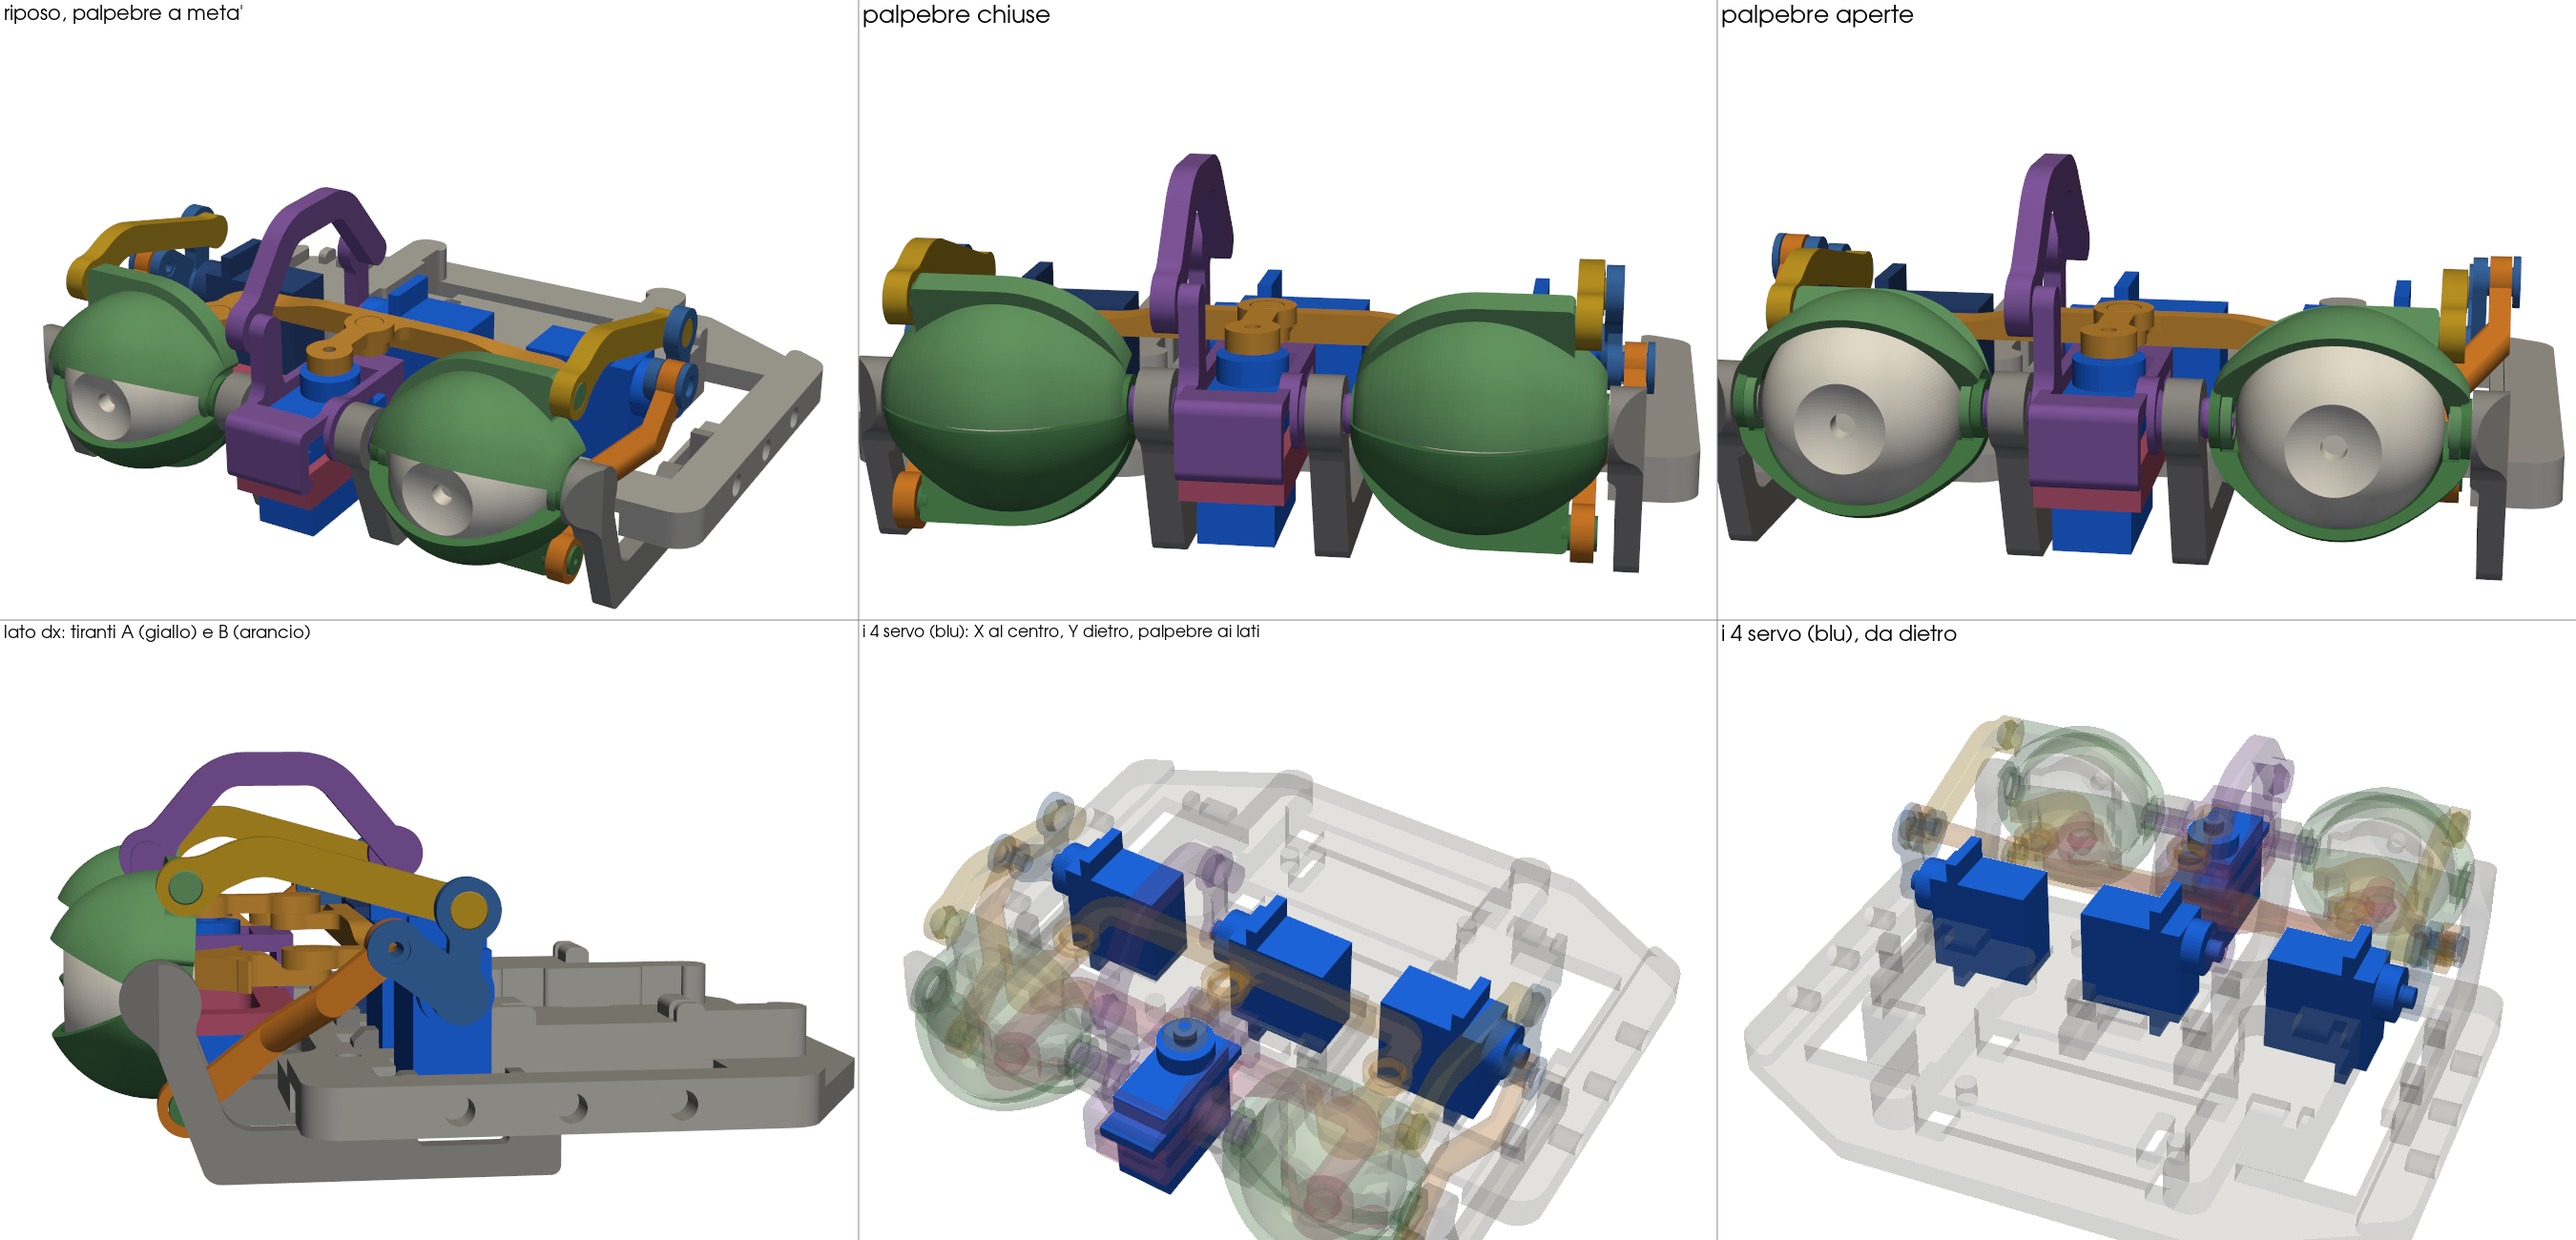
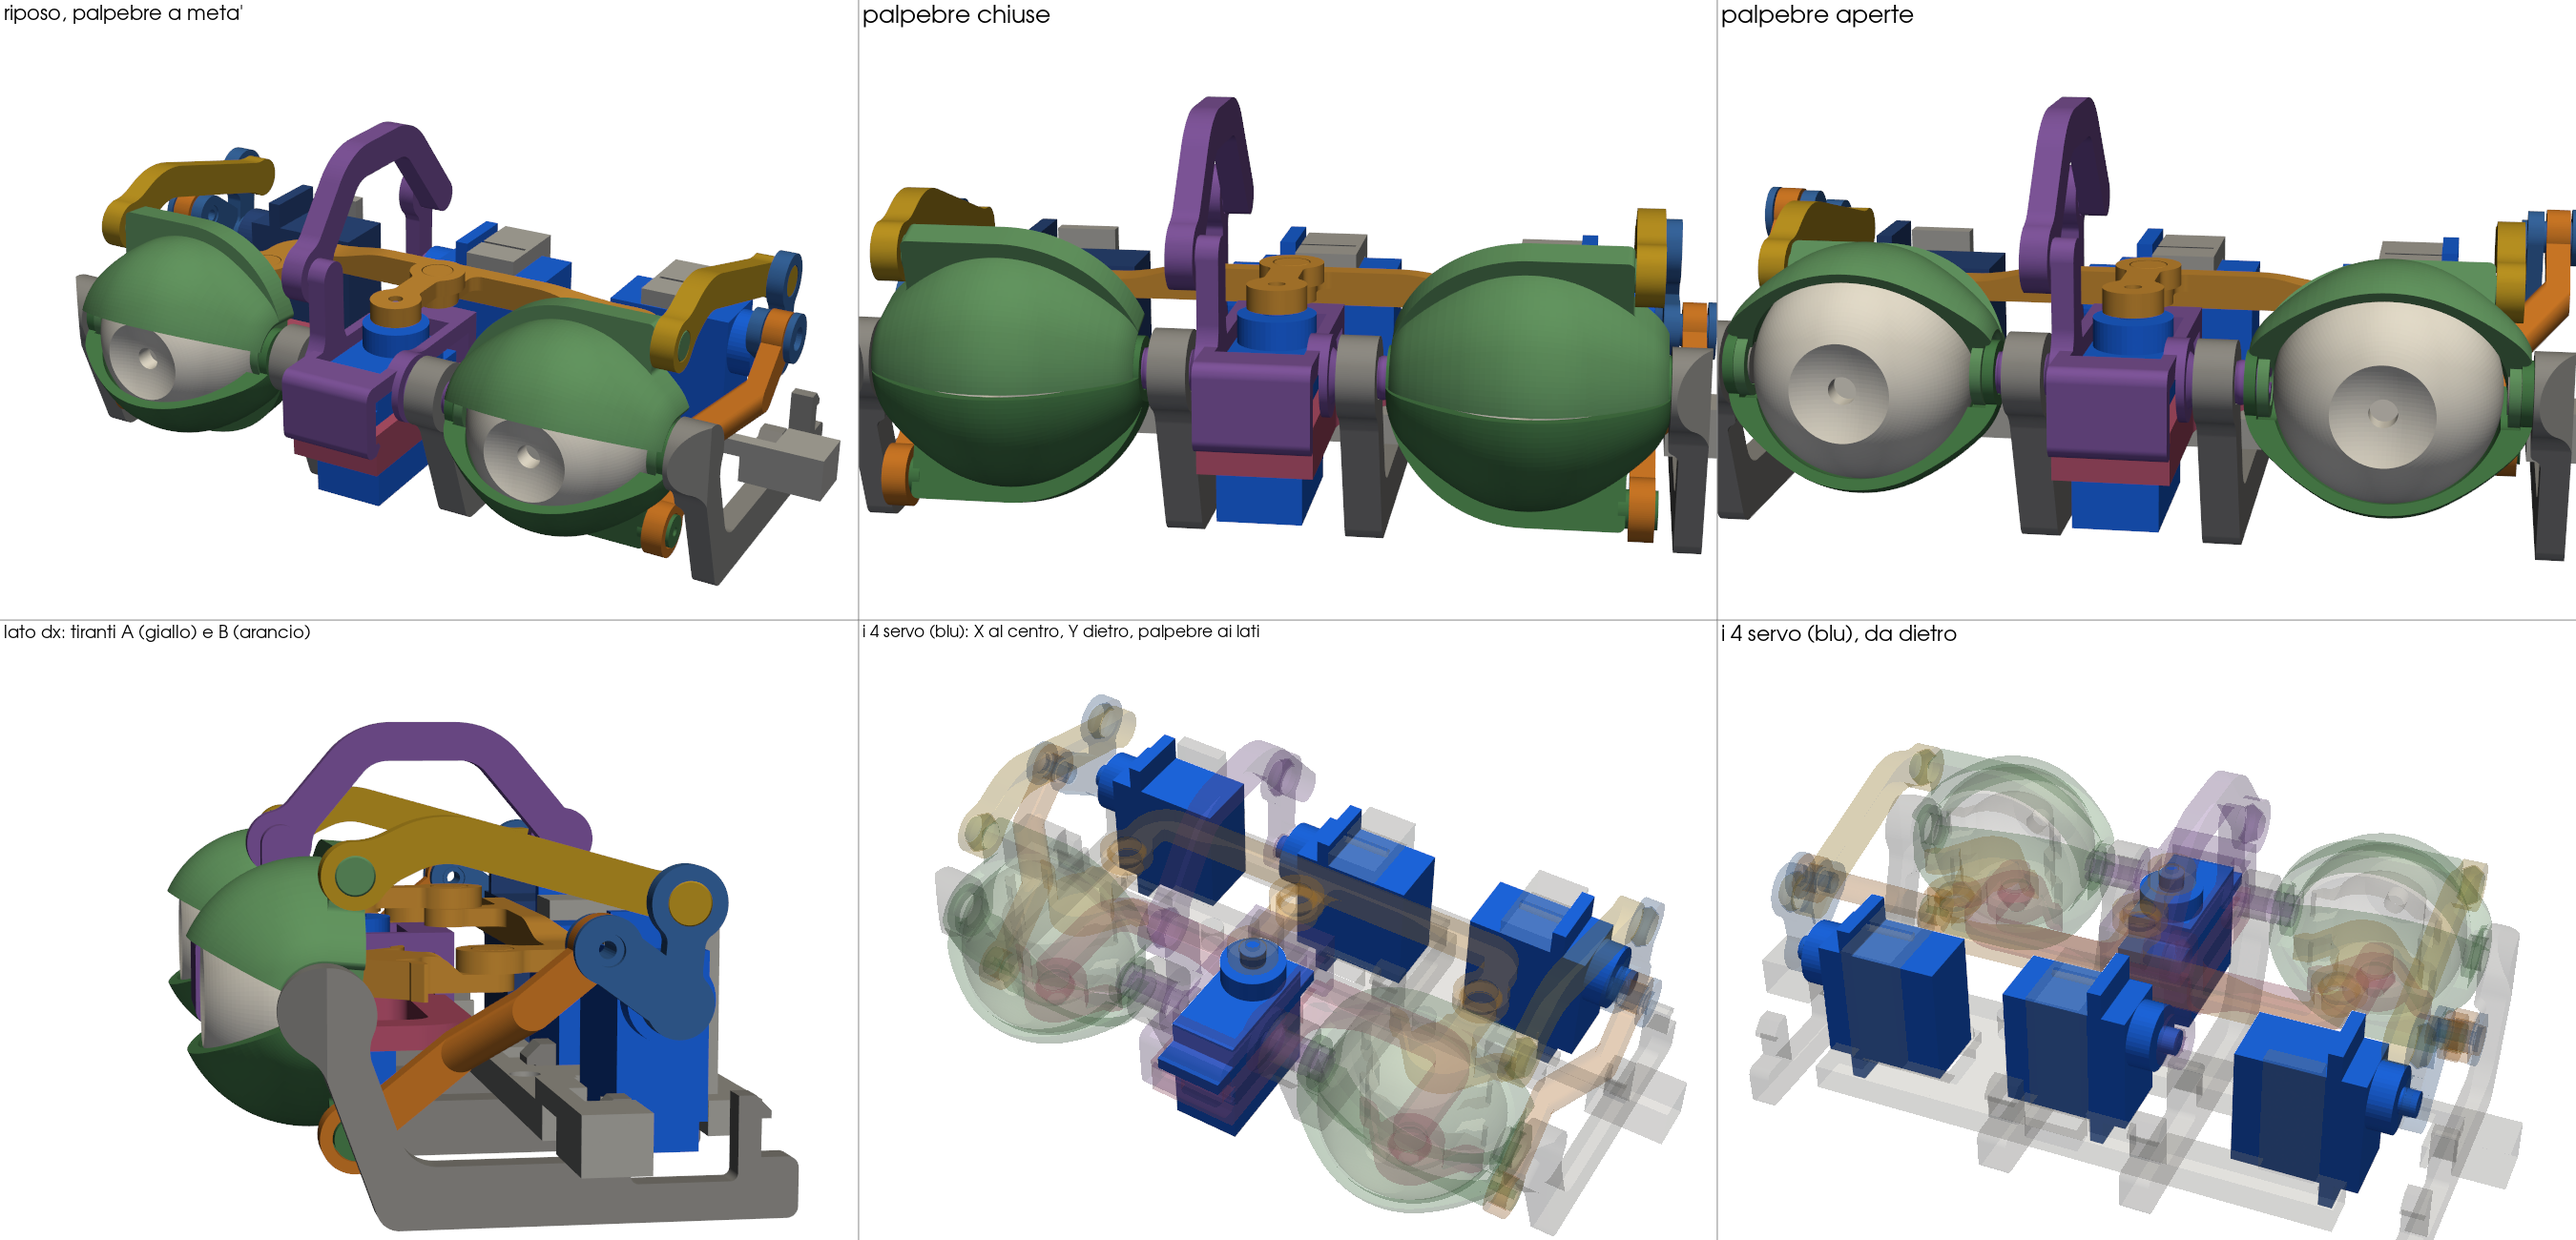
idra_version: base ridotta senza sedi inutilizzate (3 h 52 min, 76 g)
La base intera di Will (145x95, con porta-PCB, sedi dei servo posteriori e
i fermi) era ancora quella originale. Ora e' la striscia 145x30x28 con tre
blocchi nuovi (parete 3 mm) per i servo delle palpebre e dell'asse Y, senza
fermi. 20 pezzi su un piatto: da 4 h 58 min / 117 g a 3 h 52 min / 76 g.
pack_plate.py genera anche l'immagine della disposizione.

diff --git a/mechanical/scripts/generate_eyemech.py b/mechanical/scripts/generate_eyemech.py
@@ -375,7 +375,7 @@ def servo_frame(shaft_pt, shaft_dir, body_dir, top):
     return M
 
 
-def servo_seat(part, Mtop, s, plugs=(), zmin=None, sweep=40.0, depth=None):
+def servo_seat(part, Mtop, s, plugs=(), zmin=None, sweep=40.0, depth=None, wall=None, open_side=0):
     """sede 1:1 per SG90/MG90S vero dentro la sede ingrandita di Will.
     Mtop: locale servo -> pezzo con l'origine sull'asse, nel piano della faccia SUPERIORE
     (z locale = albero). Si riempie il volume del SG90 ingrandito (che era vuoto per costruzione)
@@ -385,7 +385,10 @@ def servo_seat(part, Mtop, s, plugs=(), zmin=None, sweep=40.0, depth=None):
       * via d'ingresso: tutto libero sopra il piano orecchie, lungo l'albero.
     plugs: mesh (nel sistema del pezzo) che chiudono fessure di Will da riempire;
     zmin: il riempimento non scende sotto questa quota (fondo del pezzo, piano di stampa);
-    depth: il riempimento si ferma a questa distanza sotto il piano orecchie (None = tutto)."""
+    depth: il riempimento si ferma a questa distanza sotto il piano orecchie (None = tutto);
+    wall: scala originale (s = 1), dove la sede ingrandita coincide col servo e non lascia pareti:
+    il blocco e' una scatola attorno al servo vero, spessa wall su ogni lato tranne open_side
+    (-1/+1 = lato y locale senza parete: dietro il servo passa il telaio laterale di XAxisB)."""
     c = CL
     T = lambda m: tf(m, Mtop)
     Hs = s * SG_H                                    # fondo SG90 ingrandito a z = -Hs
@@ -394,7 +397,12 @@ def servo_seat(part, Mtop, s, plugs=(), zmin=None, sweep=40.0, depth=None):
     hw = s * SG_W / 2 - 0.2
     # solo il corpo ingrandito (+1 dentro il fondo tasca): le fessure delle orecchie le chiudono
     # i plugs, l'orecchia ingrandita superiore non serve
-    body = box([xb0 + 0.2, -hw, -Hs], [xb1 + 1.0, hw, 0])
+    if wall is None:
+        body = box([xb0 + 0.2, -hw, -Hs], [xb1 + 1.0, hw, 0])
+    else:
+        body = box([-SG_SHAFT - c - wall, -SG_W / 2 - c - (0 if open_side < 0 else wall),
+                    ear - (SG_H - SG_EAR[0]) - wall],
+                   [SG_L - SG_SHAFT + c + wall, SG_W / 2 + c + (0 if open_side > 0 else wall), 0])
     fill = U([T(body)] + list(plugs))
     keep = T(box([-500, -500, -Hs - 500 if depth is None else ear - depth], [500, 500, ear]))
     fill = I(fill, keep)
@@ -561,11 +569,6 @@ def build(dia=85.0, small=False):
     for k in ("base", "cpiv_1", "cpiv_2", "opiv_R", "opiv_L", "eye_1", "eye_2"):
         asm[k] = tf(W[k], S @ st[k])
 
-    if small:   # fermi dei servo di Will: nella versione piccola le sedi sono le sue
-        out["Retainer_Single"] = sc(W["ret_single"])
-        out["Retainer_Double_A"] = sc(W["ret_double_1"])
-        out["Retainer_Double_B"] = sc(W["ret_double_2"])
-
     # ---------------- gruppi X/Y: solo mozzi delle squadrette (se ingrandite) ----------------
     core = {k: sc(v) for k, v in W["core"].items()}
     xb = {k: sc(v) for k, v in W["xB"].items()}
@@ -675,15 +678,6 @@ def build(dia=85.0, small=False):
         for k, m in out[g].items():
             asm[f"{g}:{k}"] = tf(m, Tm(s * T))
     base = sc(W["base"])
-    if small:   # sedi e base di Will cosi' come sono; base intera (145 mm)
-        asm["base"] = base
-        for k, m in out["XAxisA_PIP"].items():
-            asm[f"XAxisA_PIP:{k}"] = tf(m, Tm(s * XA_T))
-        out["Base"] = base
-        info = dict(s=s, P=P, small=True, JB=JB, PB=PB, Fs=Fs, seats=seats,
-                    linkB_len=float(np.linalg.norm(PB - JB)))
-        return out, asm, info, kin
-
     def s1(lo, hi, g=0.3):      # tappo: quote 1:1 scalate, allargato di g nel piano (si fonde ai bordi)
         lo, hi = s * np.asarray(lo, float), s * np.asarray(hi, float)
         return box(lo - [g, g, 0], hi + [g, g, 0])
@@ -698,13 +692,19 @@ def build(dia=85.0, small=False):
     base = D(base, [box([s * x0, s * -16.4, s * -3.15 + 0.01], [s * x1, s * BASE_Y[1] + 1, 1e3])
                     for x0, x1 in ((-56.0, -17.0), (17.0, 56.0))])
     for k in ("LID_R", "LID_L", "Y"):
-        base = servo_seat(base, seats[k], s, plugs[k], zmin=s * bz0, depth=SEAT_DEPTH)
+        base = servo_seat(base, seats[k], s, plugs[k], zmin=s * bz0, depth=SEAT_DEPTH,
+                          wall=SEAT_WALL if small else None, open_side=-1 if k == "LID_R" else 1)
+    # scarti staccati dal taglio (pezzetti d'angolo): si tiene solo il corpo principale
+    parts = base.split(only_watertight=False)
+    if len(parts) > 1:
+        base = max(parts, key=lambda m: abs(m.volume))
     fr = W["xA"]["EyeCorePivotHolder"]
     xa = out["XAxisA_PIP"]
-    xa["EyeCorePivotHolder"] = servo_seat(
-        xa["EyeCorePivotHolder"], seats["X"], s,
-        [s1([-6.4, -14.95, fr.bounds[0, 2]], [6.4, 10.65, 4.8])], zmin=s * fr.bounds[0, 2],
-        depth=SEAT_DEPTH)
+    if not small:   # a scala originale telaio X e box del CoreY sono gia' a misura di servo
+        xa["EyeCorePivotHolder"] = servo_seat(
+            xa["EyeCorePivotHolder"], seats["X"], s,
+            [s1([-6.4, -14.95, fr.bounds[0, 2]], [6.4, 10.65, 4.8])], zmin=s * fr.bounds[0, 2],
+            depth=SEAT_DEPTH)
     # box del CoreY sopra il servo X: in Will (1:1) ha una piastra con la finestra del servo
     # (x +-6.4, y -24.5..-0.47, z -12..-9 nel gruppo) e sotto la cavita' tra le pareti di testa
     # (y -29.2..3.3). Ingrandite sarebbero 2.7 volte il servo: si riempiono e si apre la finestra
@@ -720,18 +720,22 @@ def build(dia=85.0, small=False):
     heads = [cyl_axis(2.4, [rcx + sx * SG_EAR_HOLES / 2, 0, -SG_H + SG_EAR[1] - 0.5],
                       [rcx + sx * SG_EAR_HOLES / 2, 0, 60], n=32) for sx in (-1, 1)]   # teste viti M2
     core = out["CoreY_PIP"]
-    core["EyeCorePivotHolder"] = D(U([core["EyeCorePivotHolder"], fill]),
-                                   [tf(win, Mc)] + [tf(h, Mc) for h in heads])
+    if not small:
+        core["EyeCorePivotHolder"] = D(U([core["EyeCorePivotHolder"], fill]),
+                                       [tf(win, Mc)] + [tf(h, Mc) for h in heads])
     asm["CoreY_PIP:EyeCorePivotHolder"] = tf(core["EyeCorePivotHolder"], Tm(s * CORE_T))
 
     asm["base"] = base
     for k, m in xa.items():
         asm[f"XAxisA_PIP:{k}"] = tf(m, Tm(s * XA_T))
 
-    # ---------------- base in due meta' ----------------
-    out.update(split_base(base, s))
+    # ---------------- base in due meta' (D85) / intera (idra_version) ----------------
+    if small:
+        out["Base"] = base
+    else:
+        out.update(split_base(base, s))
 
-    info = dict(s=s, P=P, small=False, hx=(hx0, hx1), xo=(xo0, xo1), xr=(xr0, xr1), JB=JB, PB=PB, Fs=Fs,
+    info = dict(s=s, P=P, small=small, hx=(hx0, hx1), xo=(xo0, xo1), xr=(xr0, xr1), JB=JB, PB=PB, Fs=Fs,
                 MA=MA, MDb=MDb, seats=seats, linkB_len=float(np.linalg.norm(PB - JB)))
     return out, asm, info, kin
 
@@ -749,6 +753,7 @@ def bowtie(cx, cy, z0, z1, half_len=24.0, w_mid=14.0, w_end=26.0, grow=0.0):
 BASE_Y = (-38.0, -8.0)          # striscia di base tenuta (unita' 1:1)
 KEY_Y = (-31.0, -14.0)          # posizioni delle chiavette sotto la base (unita' 1:1)
 SEAT_DEPTH = SG_EAR[0] + 8.0    # blocchi delle sedi: corpo sotto le orecchie + cavo + parete
+SEAT_WALL = 3.0                 # idra_version: parete attorno al servo (mm)
 KEY_DEPTH = 7.0
 KEY_SCREW_X = 15.0
 

diff --git a/mechanical/scripts/pack_plate.py b/mechanical/scripts/pack_plate.py
@@ -109,6 +109,27 @@ def profiles(tmp):
     return paths
 
 
+def layout_image(meshes, path, title):
+    """vista dall'alto del piatto (se pyvista e' installato)."""
+    try:
+        import pyvista as pv
+    except ImportError:
+        return
+    pl = pv.Plotter(off_screen=True, window_size=(1500, 1500))
+    pl.add_mesh(pv.Plane(center=(BED / 2, BED / 2, -0.2), direction=(0, 0, 1), i_size=BED, j_size=BED),
+                color="#e8e8e8", show_edges=True)
+    cols = ["#4f81bd", "#c0504d", "#9bbb59", "#8064a2", "#f79646", "#4bacc6"]
+    for k, m in enumerate(meshes):
+        pl.add_mesh(pv.wrap(m), color=cols[k % 6])
+    pl.view_vector((0, -0.05, 1))
+    pl.camera.zoom(1.35)
+    pl.add_text(f"{title}: piatto A1 (256 x 256 mm), {len(meshes)} pezzi", font_size=12)
+    try:
+        pl.screenshot(str(path))
+    except OSError:
+        pass
+
+
 def main():
     ap = argparse.ArgumentParser()
     ap.add_argument("version", help="cartella in mechanical/eyes (idra_version, eyemech_D85)")
@@ -132,6 +153,7 @@ def main():
         for b in range(a.plates):
             sub = Path(tmp) / f"p{b + 1}"
             sub.mkdir()
+            placed = []
             for (i, bb, rot, x, y) in place:
                 if bb != b:
                     continue
@@ -141,6 +163,7 @@ def main():
                 lo = m.bounds[0]
                 m.apply_translation([x - lo[0], y - lo[1], -lo[2]])
                 m.export(sub / f"{i:02d}_{files[i].stem}.stl")
+                placed.append(m)
             out = d / "bambu_A1"
             out.mkdir(exist_ok=True)
             name = f"{a.version}_Piatto_unico.3mf" if a.plates == 1 else f"{a.version}_Piatto_{b + 1}.3mf"
@@ -155,6 +178,7 @@ def main():
             s = z.read("Metadata/slice_info.config").decode()
             t = int(re.search(r'key="prediction" value="(\d+)"', s).group(1))
             w = float(re.search(r'key="weight" value="([\d.]+)"', s).group(1))
+            layout_image(placed, ROOT / "docs" / "img" / f"{a.version}_piatto.png", a.version)
             print(f"piatto {b + 1}: {len(list(sub.glob('*.stl')))} pezzi, {t // 3600} h {(t % 3600) // 60:02d} min, {w:.0f} g -> {out / name}")
 
 

diff --git a/mechanical/eyes/idra_version/bambu_A1/README.md b/mechanical/eyes/idra_version/bambu_A1/README.md
@@ -1,18 +1,20 @@
 # Piatto Bambu Lab A1 — idra_version (scala di Will)
 
-**Tutti i 23 pezzi su un solo piatto** (`idra_version_Piatto_unico.3mf`), già tagliato con Bambu Studio 2.05:
+**Tutti i 20 pezzi su un solo piatto** (`idra_version_Piatto_unico.3mf`), già tagliato con Bambu Studio 2.05:
 A1, ugello 0.4, `0.20mm Standard @BBL A1`, Bambu PLA Basic, supporti `tree(auto)` 30°, 2 pareti,
 riempimento 15%. Si apre con File → Apri progetto.
 
 | | |
 |---|---|
-| Tempo | **≈ 4 h 58 min** (senza riscaldamento/calibrazione iniziale) |
-| Filamento | **≈ 117 g** PLA |
+| Tempo | **≈ 3 h 52 min** (senza riscaldamento/calibrazione iniziale) |
+| Filamento | **≈ 76 g** PLA |
 | Altezza massima | 42 mm |
-| Pezzi | base, `XAxisA/B`, `CoreY`, 2 palpebre superiori e 2 inferiori, 2 `LinkB`, 2 bulbi, 2 supporti centrali e 2 esterni, 3 fermi servo, 2 `PinB`, 2 rondelle |
+| Pezzi | base ridotta, `XAxisA/B`, `CoreY`, 2 palpebre superiori e 2 inferiori, 2 `LinkB`, 2 bulbi, 2 supporti centrali e 2 esterni, 2 `PinB`, 2 rondelle |
 
 Disposizione in `docs/img/idra_version_piatto.png` (6 mm tra i pezzi, margine 3 mm dal bordo).
 Se i supporti si toccano o vuoi più spazio: `python mechanical/scripts/pack_plate.py idra_version --gap 8`
 (se non ci stanno più tutti: `--plates 2`).
 Se un pezzo si stacca durante la stampa si rischia di rovinare anche gli altri: in quel caso dividere
 con `--plates 2`.
+
+Versione precedente (base intera di Will + 3 fermi servo): 4 h 58 min, 117 g.
